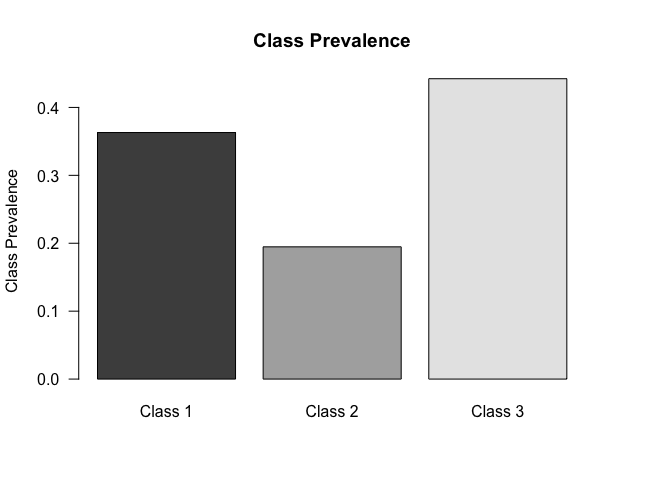
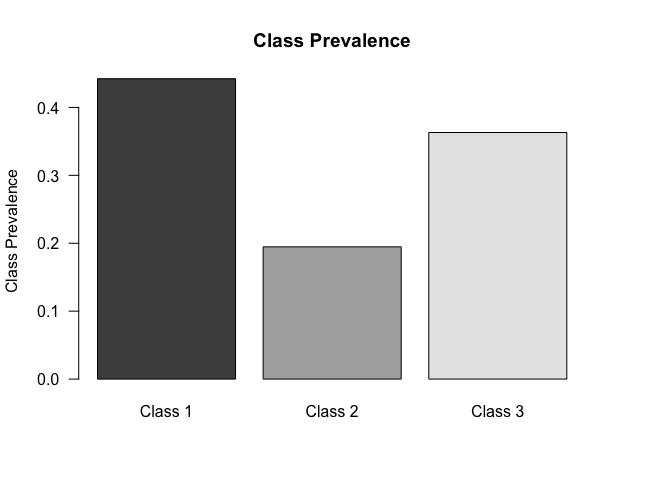
README week -> day

Changed region(s): [[0.125, 0.1562, 0.375, 0.2812], [0.625, 0.1562, 0.8438, 0.2812]]

diff --git a/README.md b/README.md
@@ -10,7 +10,7 @@ downloads](https://cranlogs.r-pkg.org/badges/grand-total/glca?color=blue)](https
 [![CRAN RStudio mirror
 downloads](https://cranlogs.r-pkg.org/badges/last-month/glca?color=orange)](https://r-pkg.org/pkg/glca)
 [![CRAN RStudio mirror
-downloads](https://cranlogs.r-pkg.org/badges/last-week/glca?color=red)](https://r-pkg.org/pkg/glca)
+downloads](https://cranlogs.r-pkg.org/badges/last-day/glca?color=red)](https://r-pkg.org/pkg/glca)
 
 <!-- badges: end -->
 
@@ -56,7 +56,7 @@ summary(lca)
 #> 
 #> Mean Prevalence for latent classes for each group:
 #>     Class 1 Class 2 Class 3
-#> ALL 0.36303 0.19471 0.44226
+#> ALL 0.44226  0.1947 0.36303
 #> 
 #> Number of parameters : 20 
 #> 
@@ -77,13 +77,13 @@ summary(lca)
 #> Estimated model parameters :
 #> Gamma :
 #>     Class 1 Class 2 Class 3
-#> ALL   0.363  0.1947  0.4423
+#> ALL  0.4423  0.1947   0.363
 #> 
 #> Rho (Y = 1) :
 #>         DEFECT   HLTH   RAPE   POOR SINGLE NOMORE
-#> Class 1 0.8281 0.9782 0.8522 0.1115 0.0514 0.0985
+#> Class 1 0.9845 1.0000 0.9901 0.9431 0.9394 0.9984
 #> Class 2 0.0626 0.4481 0.0622 0.0000 0.0000 0.0157
-#> Class 3 0.9845 1.0000 0.9901 0.9431 0.9394 0.9984
+#> Class 3 0.8281 0.9782 0.8522 0.1114 0.0514 0.0985
 plot(lca)
 ```
 
@@ -105,10 +105,10 @@ summary(mglca)
 #> 
 #> Mean Prevalence for latent classes for each group:
 #>             Class 1 Class 2 Class 3
-#> <= HS       0.27011 0.42510 0.30479
-#> HIGH SCHOOL 0.38661 0.40865 0.20474
-#> COLLEGE     0.51168 0.33797 0.15035
-#> GRADUATE    0.74073 0.10239 0.15689
+#> <= HS       0.27011 0.30479 0.42510
+#> HIGH SCHOOL 0.38661 0.20474 0.40865
+#> COLLEGE     0.51168 0.15035 0.33797
+#> GRADUATE    0.74073 0.15689 0.10239
 #> 
 #> Number of parameters : 26 
 #> Number of groups : 4 
@@ -130,16 +130,16 @@ summary(mglca)
 #> Estimated model parameters :
 #> Gamma :
 #>             Class 1 Class 2 Class 3
-#> <= HS        0.2701  0.4251  0.3048
-#> HIGH SCHOOL  0.3866  0.4086  0.2047
-#> COLLEGE      0.5117  0.3380  0.1503
-#> GRADUATE     0.7407  0.1024  0.1569
+#> <= HS        0.2701  0.3048  0.4251
+#> HIGH SCHOOL  0.3866  0.2047  0.4086
+#> COLLEGE      0.5117  0.1503  0.3380
+#> GRADUATE     0.7407  0.1569  0.1024
 #> 
 #> Rho (Y = 1) :
 #>         DEFECT   HLTH   RAPE   POOR SINGLE NOMORE
 #> Class 1 0.9848 1.0000 0.9902 0.9451 0.9417 0.9978
-#> Class 2 0.8348 0.9792 0.8592 0.1140 0.0527 0.1015
-#> Class 3 0.0715 0.4613 0.0699 0.0000 0.0000 0.0175
+#> Class 2 0.0715 0.4613 0.0699 0.0000 0.0000 0.0175
+#> Class 3 0.8348 0.9792 0.8592 0.1140 0.0527 0.1015
 plot(mglca)
 ```
 
@@ -161,10 +161,10 @@ summary(mglcr)
 #> 
 #> Mean Prevalence for latent classes for each group:
 #>             Class 1 Class 2 Class 3
-#> <= HS       0.31364 0.26926 0.41709
-#> HIGH SCHOOL 0.21045 0.38580 0.40375
-#> COLLEGE     0.15513 0.51154 0.33333
-#> GRADUATE    0.16203 0.74040 0.09758
+#> <= HS       0.41709 0.31364 0.26926
+#> HIGH SCHOOL 0.40375 0.21045 0.38580
+#> COLLEGE     0.33333 0.15513 0.51154
+#> GRADUATE    0.09758 0.16203 0.74040
 #> 
 #> Number of parameters : 28 
 #> Number of groups : 4 
@@ -187,48 +187,48 @@ summary(mglcr)
 #> Beta :
 #> Intercepts :
 #>                    Class 1/3 Class 2/3
-#> Group :<= HS         -0.6159   -0.5249
-#> Group :HIGH SCHOOL   -1.0117   -0.1416
-#> Group :COLLEGE       -1.1454    0.3260
-#> Group :GRADUATE       0.1707    1.9376
+#> Group :<= HS          0.5249   -0.0910
+#> Group :HIGH SCHOOL    0.1416   -0.8701
+#> Group :COLLEGE       -0.3260   -1.4714
+#> Group :GRADUATE      -1.9376   -1.7669
 #> 
 #> Coefficients :
 #> Class 1/3 Class 2/3 
-#>    0.6067    0.1774 
+#>   -0.1774    0.4293 
 #> 
 #> Rho (Y = 1) :
 #>         DEFECT   HLTH   RAPE   POOR SINGLE NOMORE
-#> Class 1 0.0803 0.4714 0.0793 0.0000 0.0000 0.0190
-#> Class 2 0.9848 1.0000 0.9902 0.9457 0.9422 0.9981
-#> Class 3 0.8424 0.9811 0.8662 0.1164 0.0544 0.1030
+#> Class 1 0.8424 0.9811 0.8662 0.1164 0.0544 0.1030
+#> Class 2 0.0803 0.4714 0.0793 0.0000 0.0000 0.0190
+#> Class 3 0.9848 1.0000 0.9902 0.9457 0.9422 0.9981
 coef(mglcr)
 #> Intercept :
 #> 
 #> Group <= HS:
 #>             Odds Ratio Coefficient  Std. Error  t value  Pr(>|t|)  
-#> Class 1 / 3     0.5401     -0.6159      0.3133   -1.966    0.0499 *
-#> Class 2 / 3     0.5916     -0.5249      0.2798   -1.876    0.0613 .
+#> Class 1 / 3    1.69034     0.52493     0.27985    1.876    0.0613 .
+#> Class 2 / 3    0.91301    -0.09101     0.30770   -0.296    0.7675  
 #> ---
 #> Signif. codes:  0 '***' 0.001 '**' 0.01 '*' 0.05 '.' 0.1 ' ' 1
 #> 
 #> Group HIGH SCHOOL:
 #>             Odds Ratio Coefficient  Std. Error  t value  Pr(>|t|)    
-#> Class 1 / 3     0.3636     -1.0117      0.2561   -3.950  8.97e-05 ***
-#> Class 2 / 3     0.8680     -0.1416      0.1713   -0.827     0.409    
+#> Class 1 / 3     1.1521      0.1416      0.1713    0.827  0.408877    
+#> Class 2 / 3     0.4189     -0.8701      0.2437   -3.570  0.000392 ***
 #> ---
 #> Signif. codes:  0 '***' 0.001 '**' 0.01 '*' 0.05 '.' 0.1 ' ' 1
 #> 
 #> Group COLLEGE:
 #>             Odds Ratio Coefficient  Std. Error  t value  Pr(>|t|)    
-#> Class 1 / 3     0.3181     -1.1454      0.3158   -3.627  0.000317 ***
-#> Class 2 / 3     1.3854      0.3260      0.2061    1.582  0.114300    
+#> Class 1 / 3     0.7218     -0.3260      0.2061   -1.582     0.114    
+#> Class 2 / 3     0.2296     -1.4714      0.2901   -5.073   5.6e-07 ***
 #> ---
 #> Signif. codes:  0 '***' 0.001 '**' 0.01 '*' 0.05 '.' 0.1 ' ' 1
 #> 
 #> Group GRADUATE:
 #>             Odds Ratio Coefficient  Std. Error  t value  Pr(>|t|)    
-#> Class 1 / 3     1.1861      0.1707      0.6251    0.273     0.785    
-#> Class 2 / 3     6.9418      1.9376      0.4819    4.021  6.73e-05 ***
+#> Class 1 / 3     0.1441     -1.9376      0.4819   -4.021  6.73e-05 ***
+#> Class 2 / 3     0.1709     -1.7669      0.3932   -4.493  8.80e-06 ***
 #> ---
 #> Signif. codes:  0 '***' 0.001 '**' 0.01 '*' 0.05 '.' 0.1 ' ' 1
 #> 
@@ -236,13 +236,13 @@ coef(mglcr)
 #> 
 #> Class 1 / 3 :
 #>           Odds Ratio Coefficient  Std. Error  t value  Pr(>|t|)    
-#> SEXFEMALE    1.83434     0.60668     0.06391    9.493    <2e-16 ***
+#> SEXFEMALE    0.83744    -0.17740     0.04866   -3.646  0.000296 ***
 #> ---
 #> Signif. codes:  0 '***' 0.001 '**' 0.01 '*' 0.05 '.' 0.1 ' ' 1
 #> 
 #> Class 2 / 3 :
 #>           Odds Ratio Coefficient  Std. Error  t value  Pr(>|t|)    
-#> SEXFEMALE    1.19411     0.17740     0.04866    3.646  0.000296 ***
+#> SEXFEMALE    1.53615     0.42928     0.05974    7.186  2.55e-12 ***
 #> ---
 #> Signif. codes:  0 '***' 0.001 '**' 0.01 '*' 0.05 '.' 0.1 ' ' 1
 
@@ -267,8 +267,8 @@ summary(mlca)
 #> 
 #> Mean Prevalence for latent classes:
 #>           Class 1 Class 2 Class 3
-#> Cluster 1 0.06128 0.00877 0.92995
-#> Cluster 2 0.34985 0.14125 0.50891
+#> Cluster 1 0.06129 0.92994 0.00877
+#> Cluster 2 0.34985 0.50889 0.14125
 #> 
 #> 
 #> Number of parameters : 20 
@@ -294,14 +294,14 @@ summary(mlca)
 #> 
 #> Gamma :
 #>           Class 1 Class 2 Class 3
-#> Cluster 1  0.0613  0.0088  0.9299
-#> Cluster 2  0.3498  0.1412  0.5089
+#> Cluster 1  0.0613  0.9299  0.0088
+#> Cluster 2  0.3499  0.5089  0.1413
 #> 
 #> Rho (Y = 1) :
 #>          ECIGT ECIGAR   ESLT EELCIGT EHOOKAH
 #> Class 1 0.3436 0.1970 0.1265  0.7780  0.0439
-#> Class 2 0.9120 0.9755 0.5621  0.9776  0.5345
-#> Class 3 0.0062 0.0043 0.0086  0.0405  0.0057
+#> Class 2 0.0062 0.0043 0.0086  0.0405  0.0057
+#> Class 3 0.9120 0.9755 0.5621  0.9776  0.5345
 plot(mlca)
 ```
 
@@ -326,12 +326,12 @@ summary(mlcr)
 #> 
 #> Mean Prevalence for latent clusters:
 #> Cluster 1 Cluster 2 
-#>   0.44637   0.55363 
+#>   0.55362   0.44638 
 #> 
 #> Mean Prevalence for latent classes:
 #>           Class 1 Class 2 Class 3
-#> Cluster 1 0.11856 0.29388 0.58756
-#> Cluster 2 0.02161 0.09574 0.88265
+#> Cluster 1 0.02161 0.88265 0.09574
+#> Cluster 2 0.11855 0.58757 0.29388
 #> 
 #> 
 #> Number of parameters : 22 
@@ -353,39 +353,39 @@ summary(mlcr)
 #> Estimated model parameters :
 #> Delta :
 #> Cluster 1 Cluster 2 
-#>    0.4464    0.5536 
+#>    0.5536    0.4464 
 #> 
 #> Beta (level 1) :
 #> $Cluster1
 #>                    Class 1/3 Class 2/3
-#> (Intercept)          -3.1480   -1.6793
-#> SCH_LEVHigh School    2.6465    1.9399
+#> (Intercept)          -1.9555    2.9074
+#> SCH_LEVHigh School    0.7066   -1.9399
 #> 
 #> $Cluster2
 #>                    Class 1/3 Class 2/3
-#> (Intercept)          -4.8628   -2.9073
-#> SCH_LEVHigh School    2.6465    1.9399
+#> (Intercept)          -1.4687    1.6793
+#> SCH_LEVHigh School    0.7066   -1.9399
 #> 
 #> 
 #> Rho (Y = 1) :
 #>          ECIGT ECIGAR   ESLT EELCIGT EHOOKAH
 #> Class 1 0.8959 0.9690 0.5382  0.9779  0.5014
-#> Class 2 0.3144 0.1631 0.1187  0.7292  0.0388
-#> Class 3 0.0034 0.0037 0.0072  0.0352  0.0056
+#> Class 2 0.0034 0.0037 0.0072  0.0352  0.0056
+#> Class 3 0.3144 0.1631 0.1187  0.7292  0.0388
 coef(mlcr)
 #> Intercept :
 #> 
 #> Cluster 1 :
 #>             Odds Ratio Coefficient  Std. Error  t value  Pr(>|t|)    
-#> Class 1 / 3    0.04294    -3.14800     0.41903   -7.513  1.01e-13 ***
-#> Class 2 / 3    0.18650    -1.67930     0.39240   -4.280  2.00e-05 ***
+#> Class 1 / 3     0.1415     -1.9555      0.9124   -2.143    0.0323 *  
+#> Class 2 / 3    18.3086      2.9074      0.4662    6.237  5.84e-10 ***
 #> ---
 #> Signif. codes:  0 '***' 0.001 '**' 0.01 '*' 0.05 '.' 0.1 ' ' 1
 #> 
 #> Cluster 2 :
 #>             Odds Ratio Coefficient  Std. Error  t value  Pr(>|t|)    
-#> Class 1 / 3   0.007729   -4.862820    0.754814   -6.442  1.60e-10 ***
-#> Class 2 / 3   0.054621   -2.907331    0.466160   -6.237  5.85e-10 ***
+#> Class 1 / 3     0.2302     -1.4687      0.6269   -2.343    0.0193 *  
+#> Class 2 / 3     5.3620      1.6793      0.3924    4.280  1.99e-05 ***
 #> ---
 #> Signif. codes:  0 '***' 0.001 '**' 0.01 '*' 0.05 '.' 0.1 ' ' 1
 #> 
@@ -393,14 +393,14 @@ coef(mlcr)
 #> Level 1 Coefficients :
 #> 
 #> Class 1 / 3 :
-#>                    Odds Ratio Coefficient  Std. Error  t value  Pr(>|t|)    
-#> SCH_LEVHigh School    14.1039      2.6465      0.3061    8.646    <2e-16 ***
+#>                    Odds Ratio Coefficient  Std. Error  t value  Pr(>|t|)  
+#> SCH_LEVHigh School     2.0270      0.7066      0.3474    2.034    0.0422 *
 #> ---
 #> Signif. codes:  0 '***' 0.001 '**' 0.01 '*' 0.05 '.' 0.1 ' ' 1
 #> 
 #> Class 2 / 3 :
 #>                    Odds Ratio Coefficient  Std. Error  t value  Pr(>|t|)    
-#> SCH_LEVHigh School     6.9577      1.9399      0.2192     8.85    <2e-16 ***
+#> SCH_LEVHigh School     0.1437     -1.9399      0.2192    -8.85    <2e-16 ***
 #> ---
 #> Signif. codes:  0 '***' 0.001 '**' 0.01 '*' 0.05 '.' 0.1 ' ' 1
 ```
